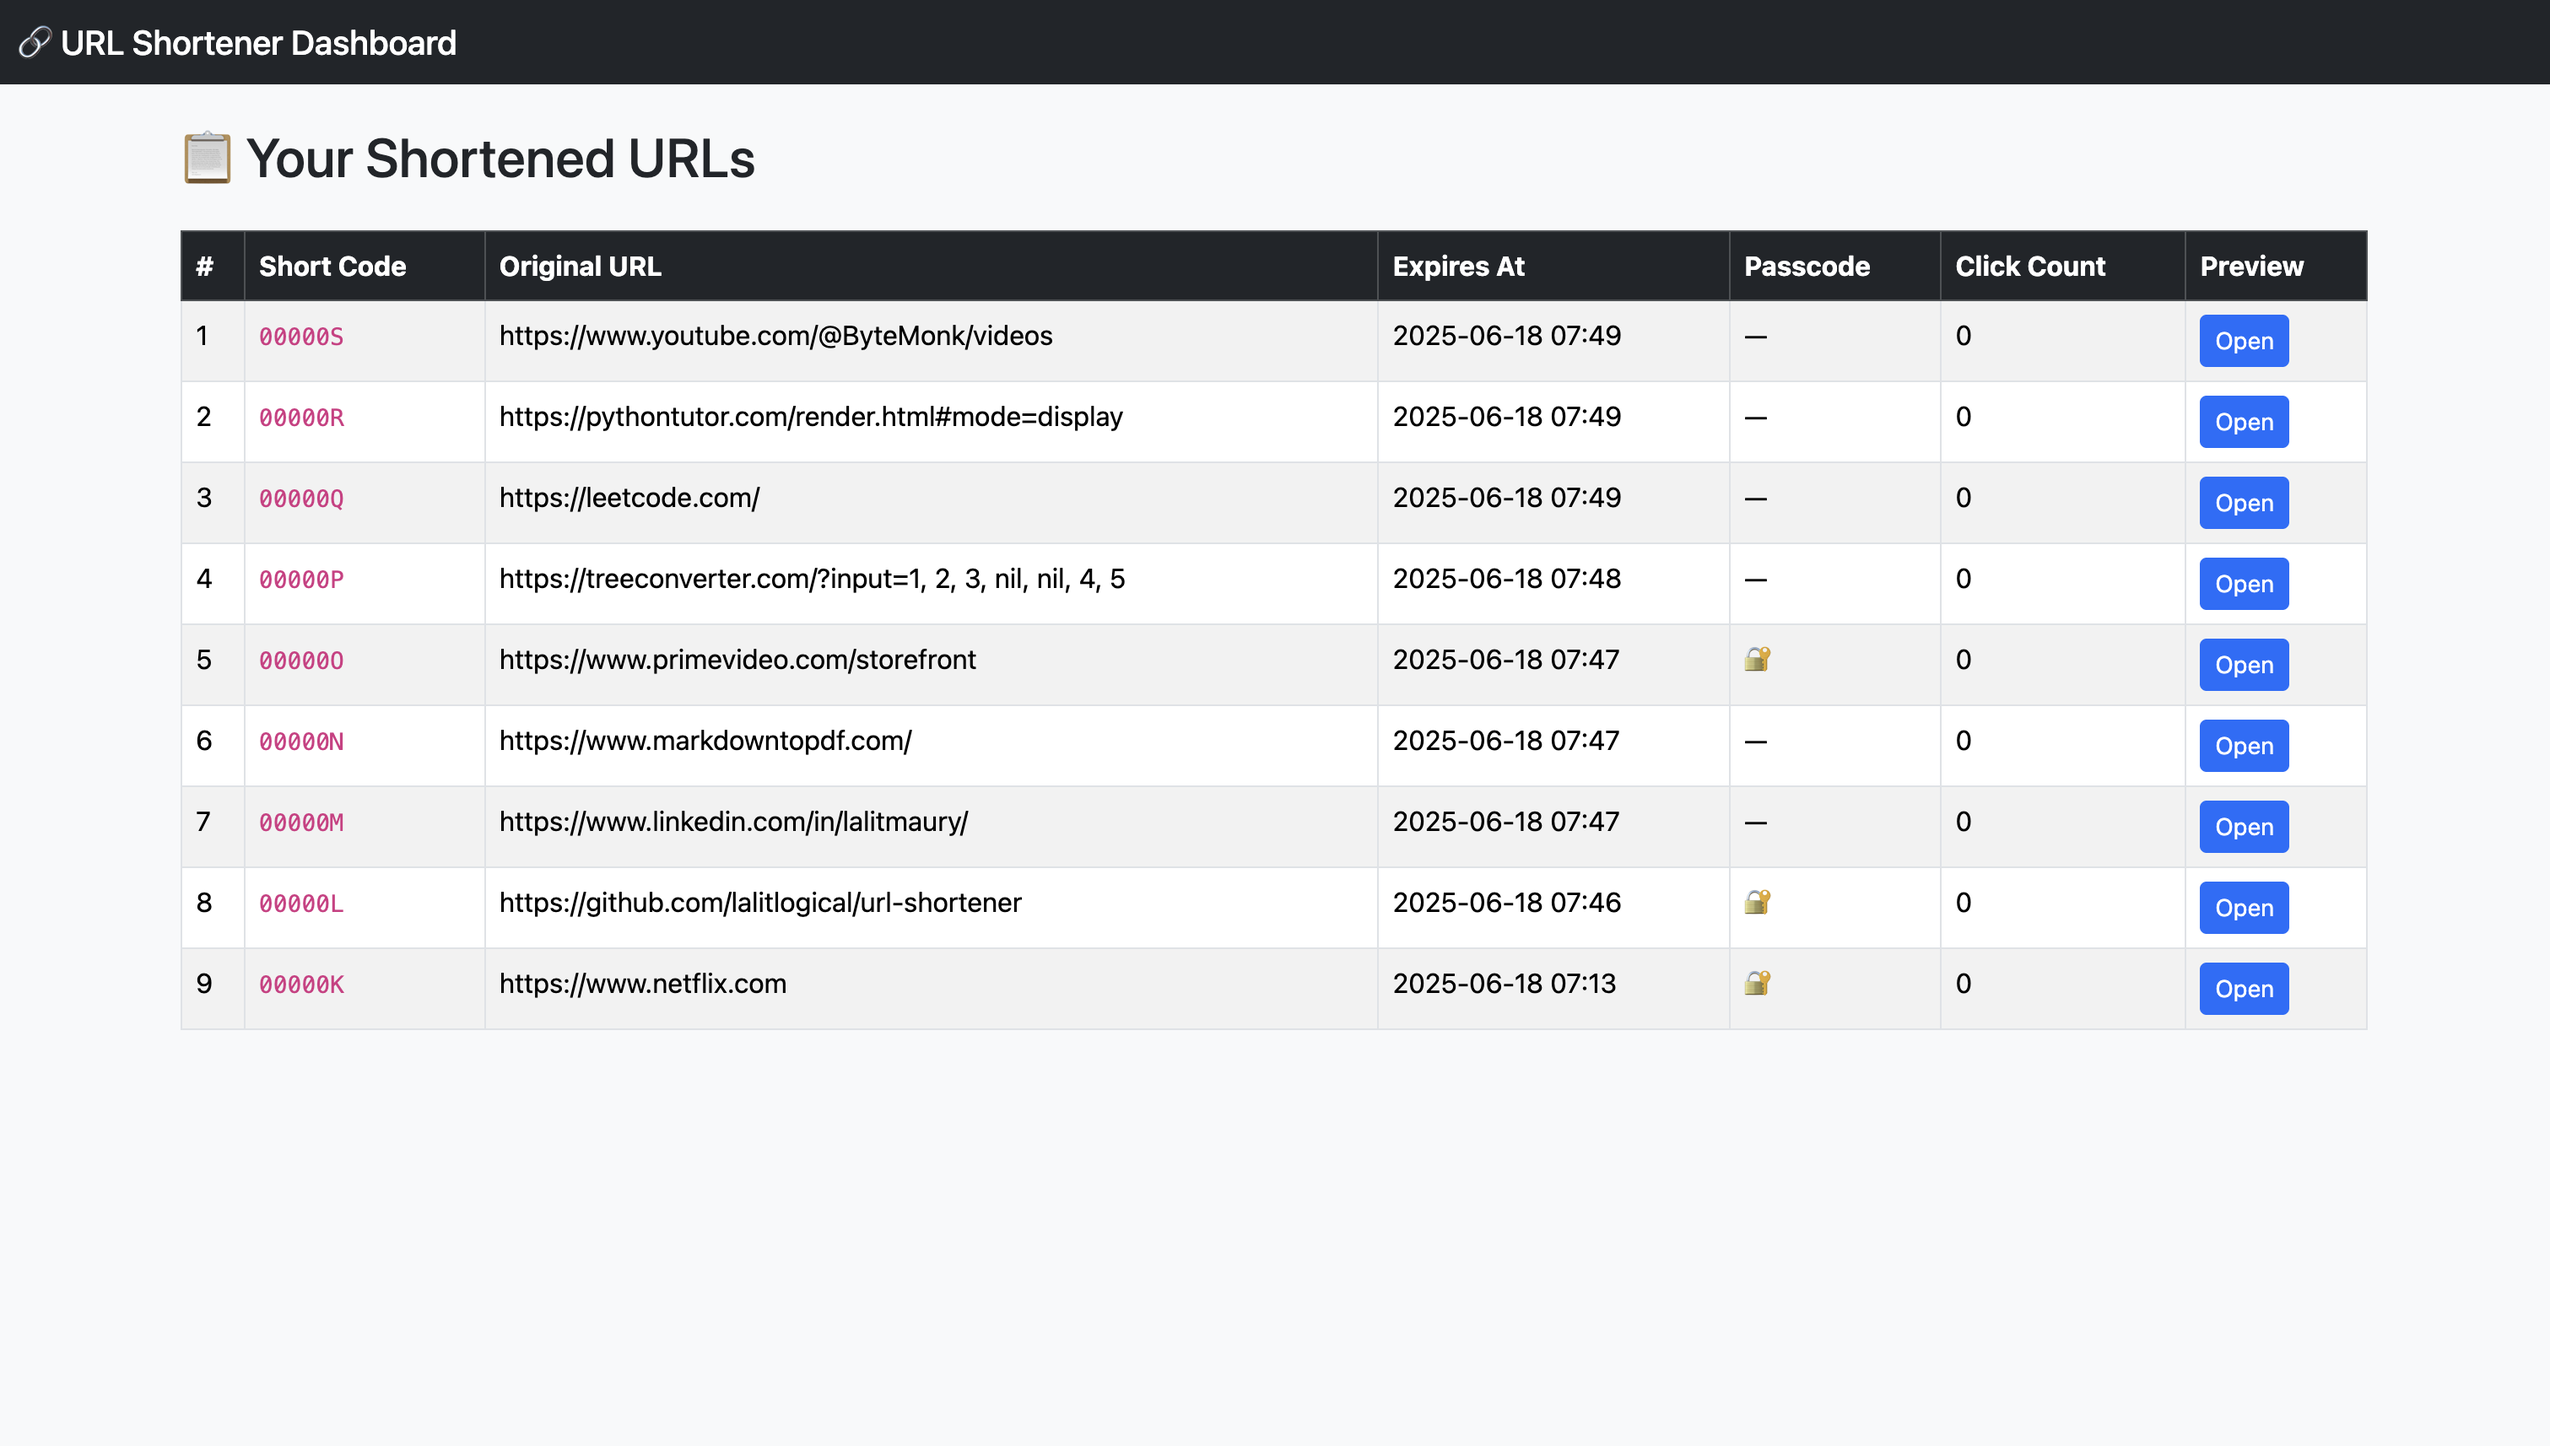
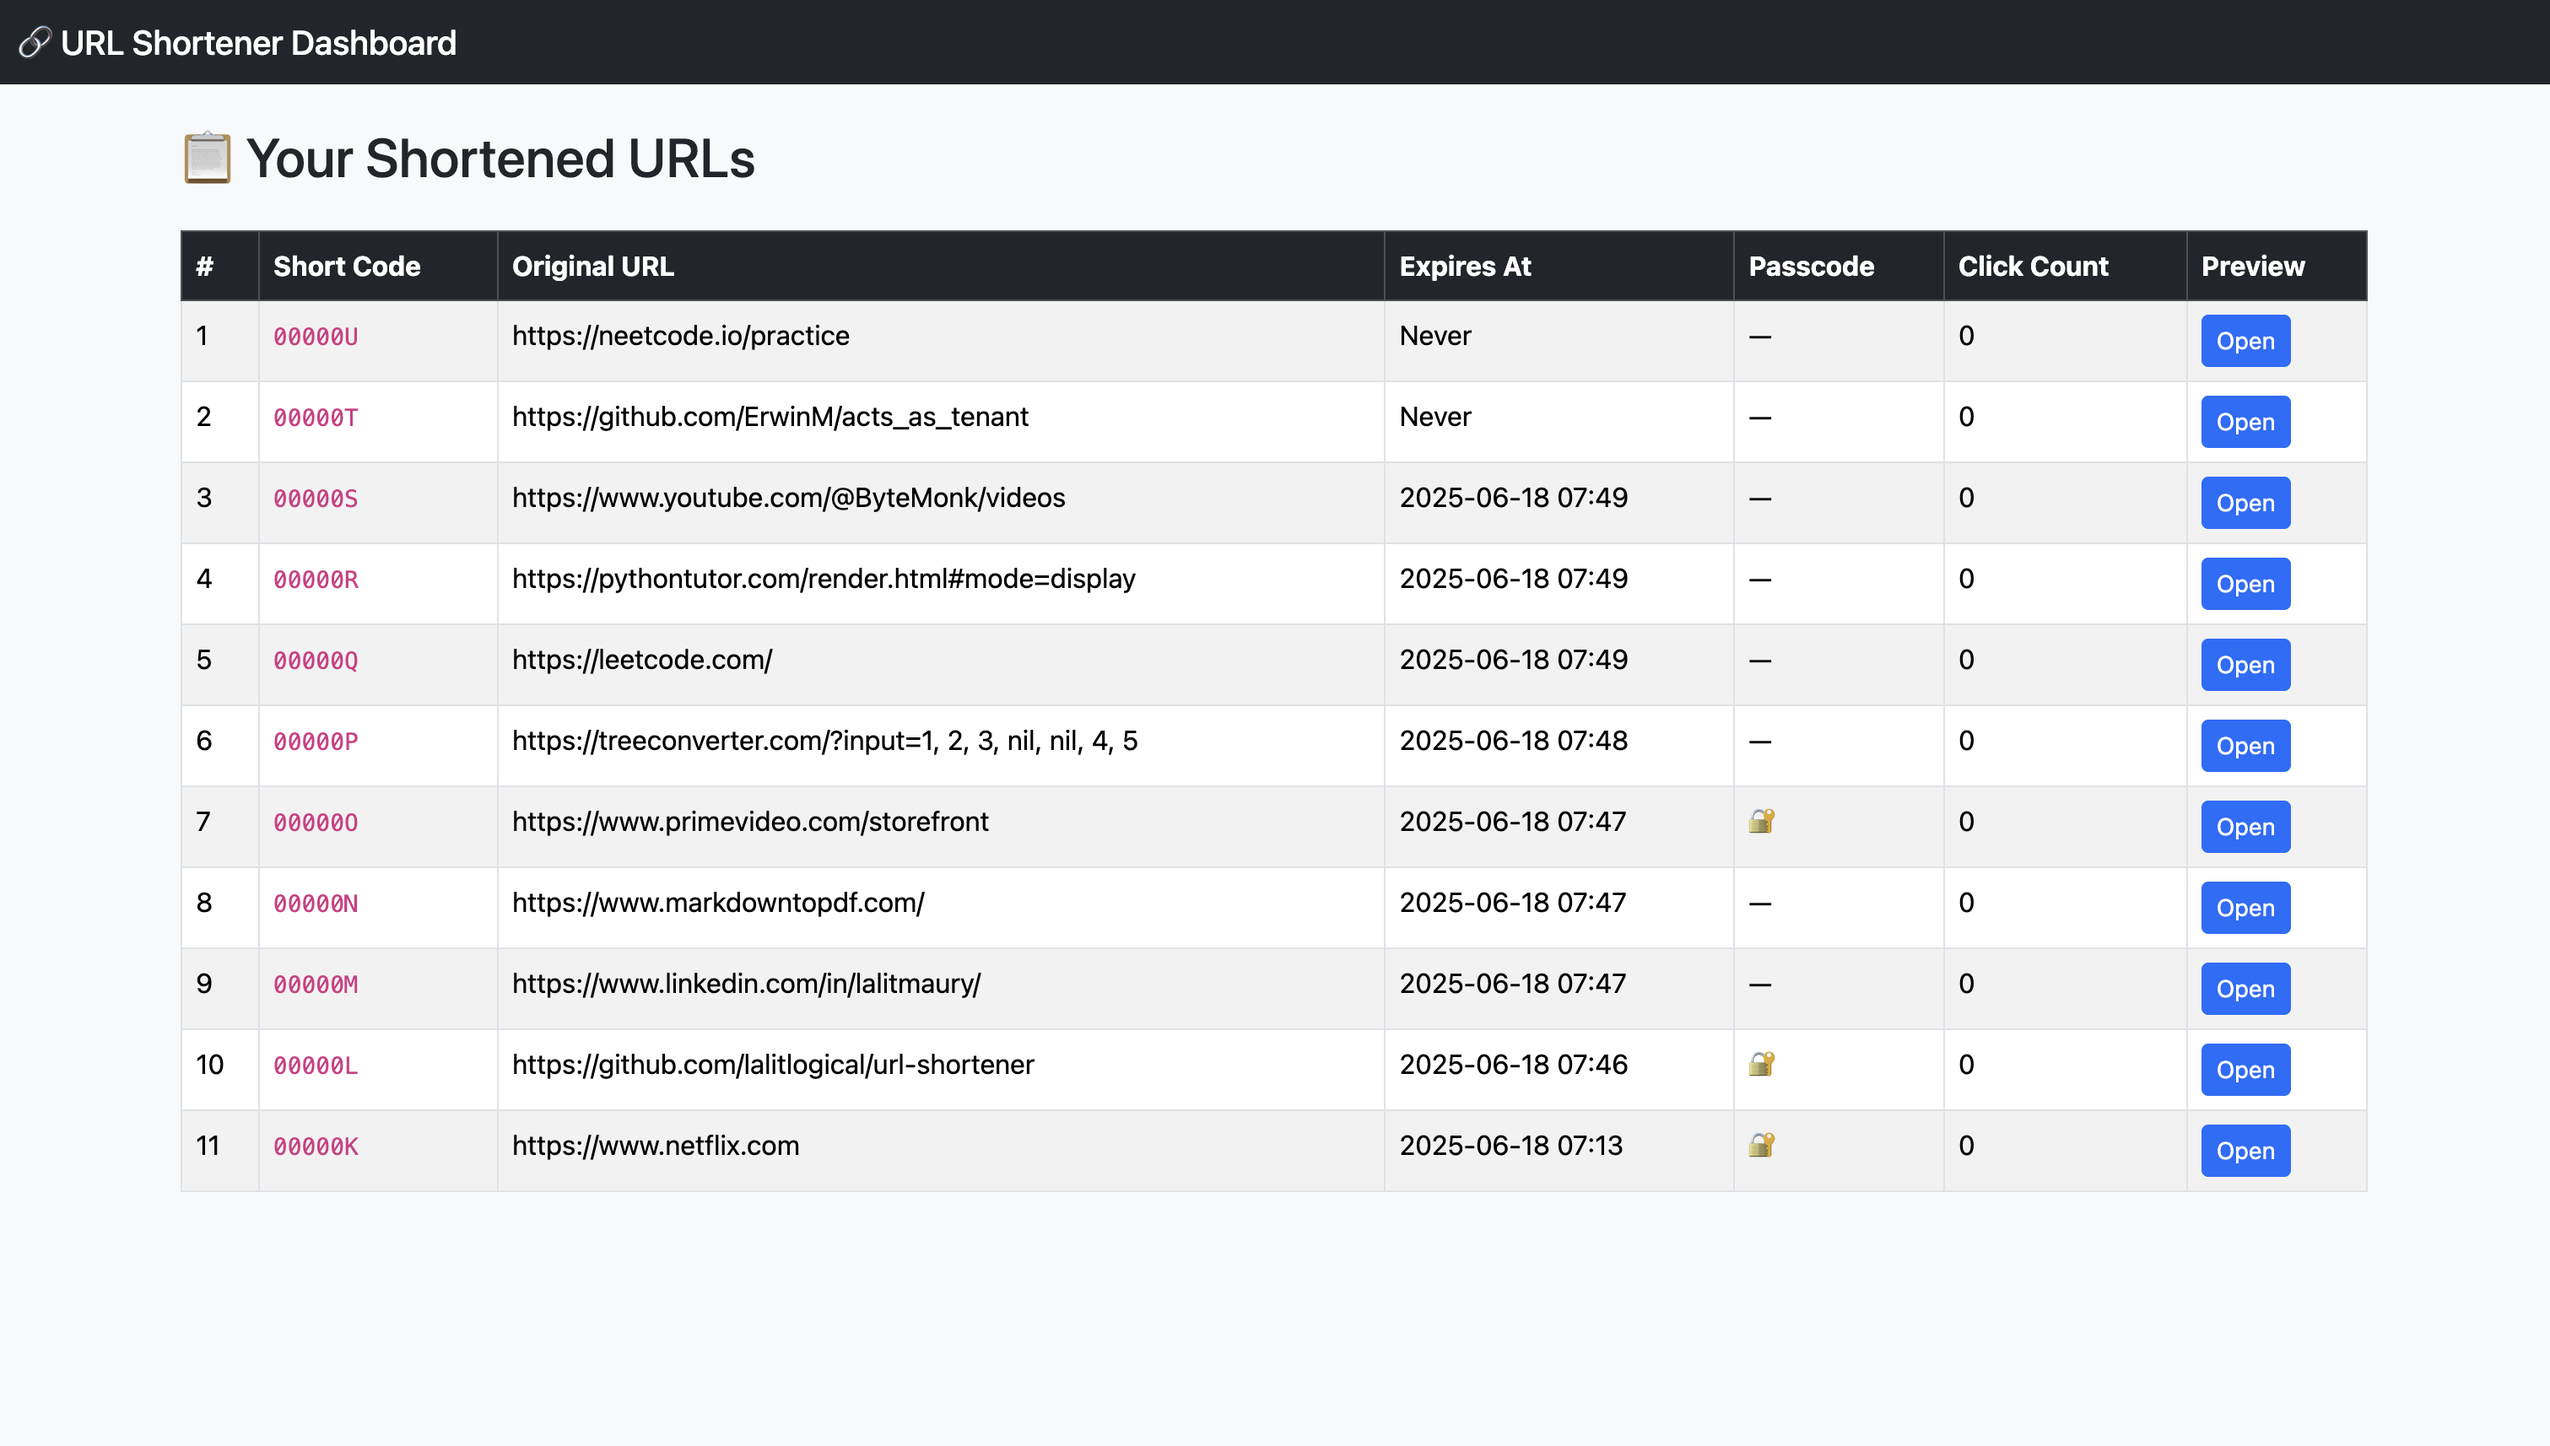
feat(service): [#123] updated dashboard image and never expire if expiration not required

diff --git a/app/models/shortened_url.rb b/app/models/shortened_url.rb
@@ -28,7 +28,7 @@ class ShortenedUrl < ApplicationRecord
   end
 
   def set_expiration
-    self.expiration = expiration ? Time.at(expiration).utc : Time.current.utc + 3600
+    self.expiration = expiration ? Time.at(expiration).utc : nil
   end
 
   def generate_unique_code
